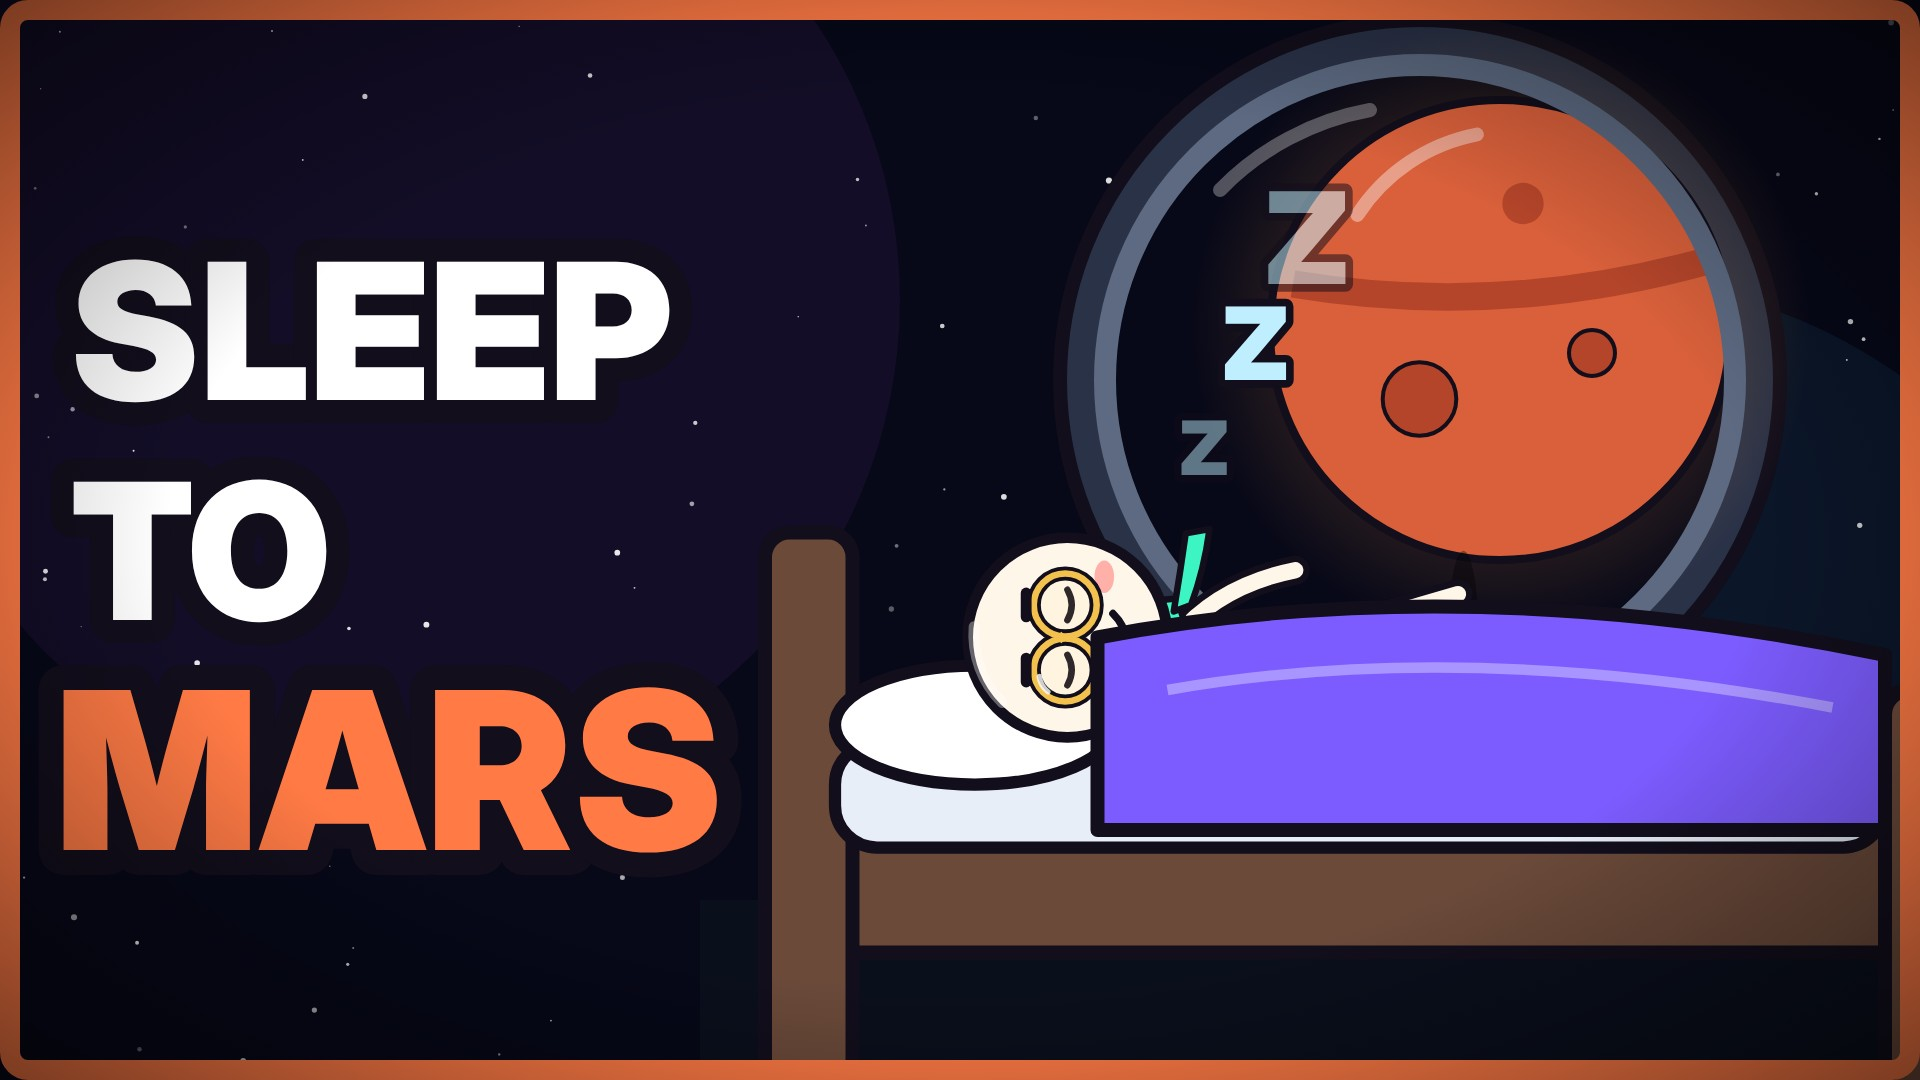
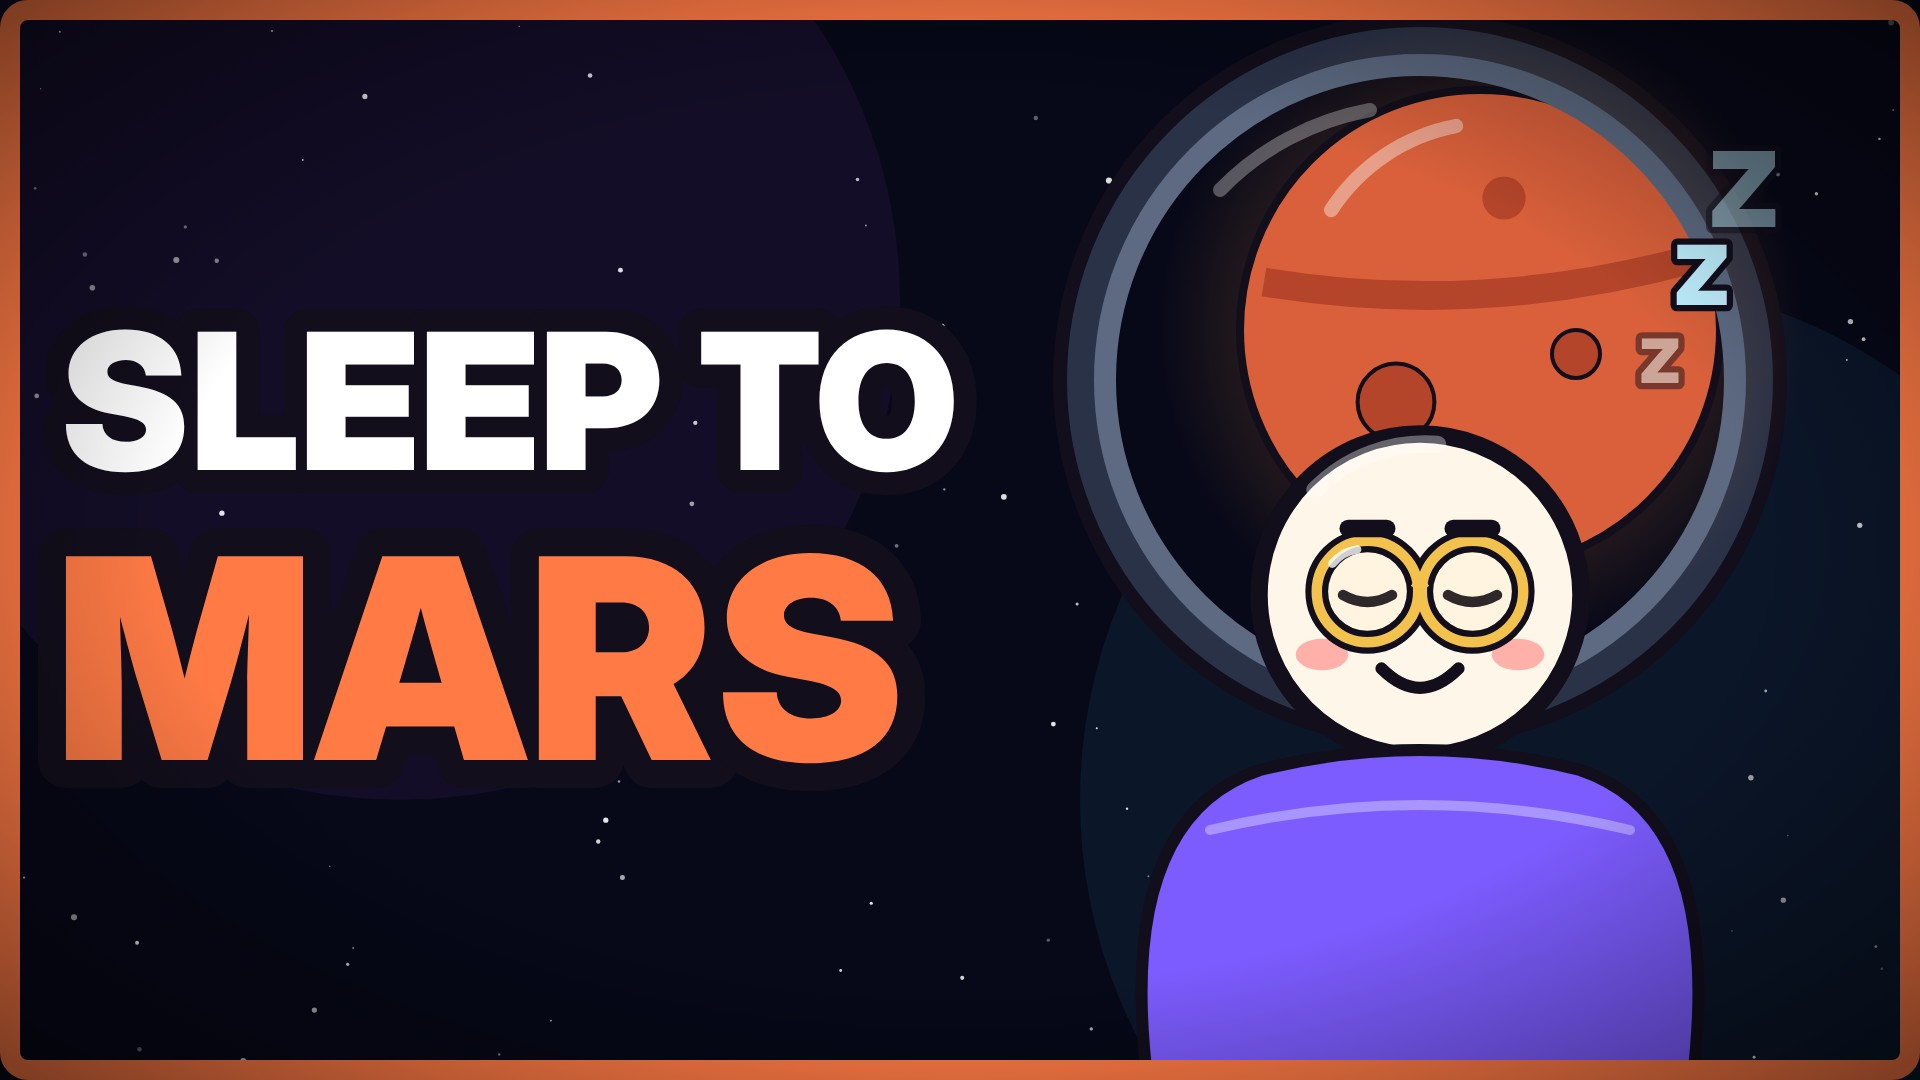
Episode 015: What If You Could Hibernate Like a Bear?
Claude-Session: https://claude.ai/code/session_019ai2m2MxcJnxMHWqzPuaSF

diff --git a/episodes/015-hibernate/thumb.html b/episodes/015-hibernate/thumb.html
@@ -4,13 +4,14 @@ let th_c='#FF7A45';
 document.getElementById('s').innerHTML=`<svg width="1920" height="1080" viewBox="0 0 1920 1080" xmlns="http://www.w3.org/2000/svg">${DEFS}
  ${h15_bgSpace(.4)}
  <circle cx="1420" cy="380" r="360" fill="#2A3248" stroke="${INK}" stroke-width="14"/><circle cx="1420" cy="380" r="315" fill="#070818"/>
- ${h15_planet(1500,330,230,'mars',0)}
+ ${h15_planet(1480,330,240,'mars',0)}
  <circle cx="1420" cy="380" r="315" fill="none" stroke="#5D6A82" stroke-width="22"/><path d="M1220 190 A280 280 0 0 1 1370 110" stroke="#fff" stroke-width="14" fill="none" opacity=".3" stroke-linecap="round"/>
- <rect x="700" y="900" width="1300" height="200" fill="#0A0F1C"/>
- ${h15_bed(1360,900,1.75,0,{eyes:'closed',mouth:'smile',blanket:P.violet})}
- ${h15_zzz(1180,520,.35,2.2)}
- <text x="70" y="400" font-size="190" font-weight="900" fill="${INK}" stroke="${INK}" stroke-width="46" stroke-linejoin="round">SLEEP</text><text x="70" y="400" font-size="190" font-weight="900" fill="#fff">SLEEP</text>
- <text x="70" y="620" font-size="190" font-weight="900" fill="${INK}" stroke="${INK}" stroke-width="46" stroke-linejoin="round">TO</text><text x="70" y="620" font-size="190" font-weight="900" fill="#fff">TO</text>
- <text x="55" y="850" font-size="220" font-weight="900" fill="${INK}" stroke="${INK}" stroke-width="50" stroke-linejoin="round">MARS</text><text x="55" y="850" font-size="220" font-weight="900" fill="${th_c}">MARS</text>
+ ${glint({x:1420,y:700,s:1.75,t:0,eyes:'closed',mouth:'smile',brows:'calm',pose:'down'})}
+ <path d="M1150 1100 Q1110 820 1260 770 Q1420 730 1580 770 Q1730 820 1690 1100Z" fill="${P.violet}" stroke="${INK}" stroke-width="12" stroke-linejoin="round"/>
+ <path d="M1210 830 Q1420 780 1630 830" stroke="#fff" stroke-width="10" fill="none" opacity=".35" stroke-linecap="round"/>
+ <ellipse cx="1420" cy="390" rx="0" ry="0"/>
+ ${h15_zzz(1640,420,.35,1.8)}
+ <text x="60" y="470" font-size="190" font-weight="900" fill="${INK}" stroke="${INK}" stroke-width="46" stroke-linejoin="round">SLEEP TO</text><text x="60" y="470" font-size="190" font-weight="900" fill="#fff">SLEEP TO</text>
+ <text x="55" y="760" font-size="280" font-weight="900" fill="${INK}" stroke="${INK}" stroke-width="56" stroke-linejoin="round">MARS</text><text x="55" y="760" font-size="280" font-weight="900" fill="${th_c}">MARS</text>
  <rect x="10" y="10" width="1900" height="1060" rx="18" fill="none" stroke="${th_c}" stroke-width="20"/>${VIG}</svg>`;
 </script></body></html>
